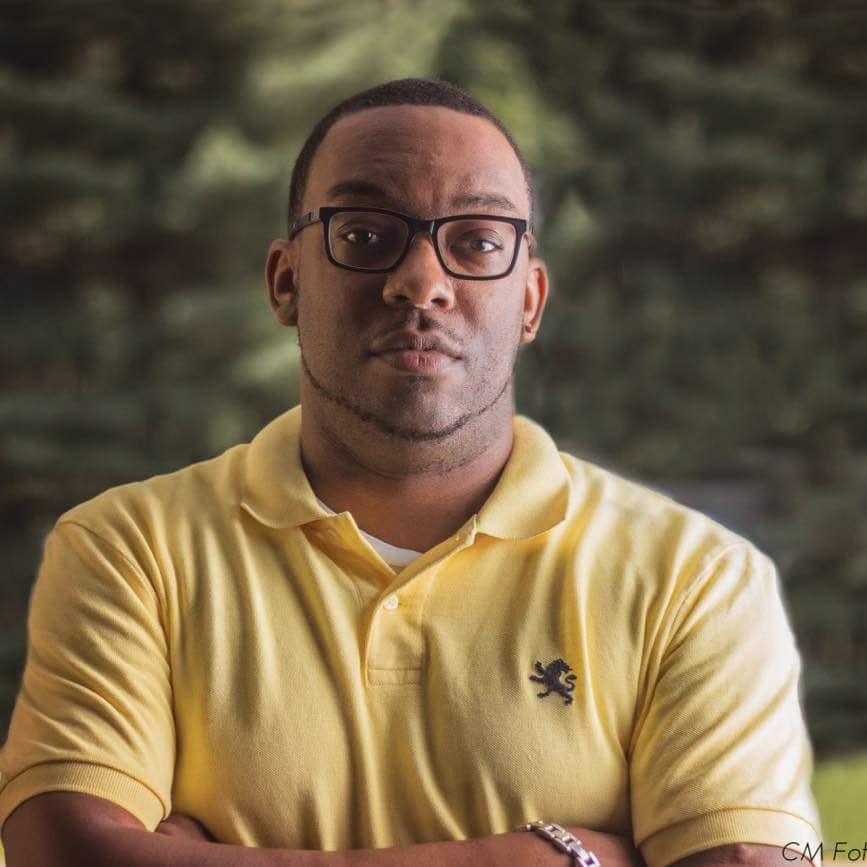
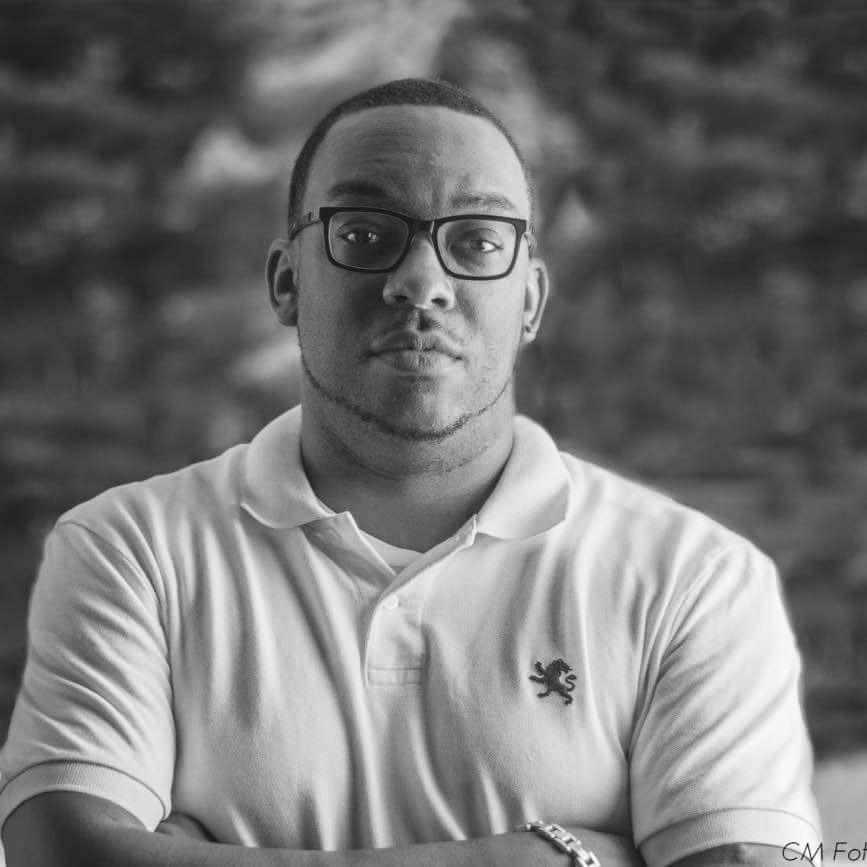
added some work history

diff --git a/index.html b/index.html
@@ -33,7 +33,7 @@
         <div class="row">
             <div class="col-md-12">
             <div class="jumbotron">
-                <div class="small-logo"><img src="img/CaJuan-Wright-black-hires(desktop).png" class="img-fluid" alt="Responsive image"></div>
+                <div class="small-logo"><img src="img/Profile.jpg" class="img-fluid" alt="Responsive image"></div>
                 <h1 class="display-2">CJ Wright</h1>
                 <h2 class="display-6">ALL THINGS CREATIVE</h2>
                 <hr class="my-4">
@@ -44,21 +44,22 @@
             </div>
             </div>
         </div>
-        <div class="text-block">
+       
           <div class="row">
+              <div class="text-block">
               <div class="col-sm-12">
               <h2>Listen Up...</h2>
               <p>Maecenas tincidunt semper tortor, at efficitur urna elementum in. In hac habitasse platea dictumst. Curabitur ornare dolor eu sem interdum posuere. Etiam vehicula sem ut nisi vulputate, eu feugiat diam facilisis. Class aptent taciti sociosqu ad litora torquent per conubia nostra, per inceptos himenaeos. Sed nec tempor nisl. Suspendisse et tristique ligula, non commodo ex. Praesent a vulputate nibh. Nulla ligula diam, molestie sed vestibulum sit amet, consectetur nec nulla. Etiam nec egestas sapien, ac volutpat mi.</p>
               </div>
         </div>
             <div class="col-sm-6">
-                <h4>Stuff I'm Good At:</h4>
+                <h4>Profession Experience:</h4>
                 <ul class="list-group">
-                <li class="list-group-item">Disc Golf</li>
-                <li class="list-group-item">Coding up UI</li>
+                <li class="list-group-item">Audio Production / recording / engineering</li>
+                <li class="list-group-item">Photo / Video / Editing</li>
                 <li class="list-group-item">Playing lots of video games</li>
-                <li class="list-group-item">Using bootstrap grid</li>
-                <li class="list-group-item">Taking long naps</li>
+                <li class="list-group-item">UI Design / Full Stack Developer</li>
+                <li class="list-group-item">Drums / Keys / Vocals </li>
             </ul>
             </div>
         </div>
@@ -76,28 +77,28 @@
             <tbody>
                 <tr>
                 <th scope="row">1</th>
-                <td>Apple</td>
-                <td>Software Engineer</td>
-                <td>Swift</td>
+                <td>Threewire</td>
+                <td>Graphic Design</td>
+                <td>PS,AE,PP,ID</td>
                 </tr>
                 <tr>
                 <th scope="row">2</th>
-                <td>Microsoft</td>
-                <td>Computer Scientist</td>
-                <td>.NET</td>
+                <td>CM Fotografix</td>
+                <td>Owner</td>
+                <td>See above + camera and video equipment</td>
                 </tr>
                 <tr>
                 <th scope="row">3</th>
-                <td>Amazon</td>
-                <td>Dev Ops</td>
-                <td>AWS</td>
+                <td>Lambda CS</td>
+                <td>Student</td>
+                <td>HTML,JS,CSS,React,Angular</td>
                 </tr>
             </tbody>
             </table>
         </div>
         <div class="row footer">
             <div class="col-sm-12">
-            <p class="text-center">Copyright Awesomeness 2018</p>
+            <p class="text-center"> All Things Creative 2018</p>
             </div>
         </div>
     </div><!-- container -->

diff --git a/css/index.css b/css/index.css
@@ -19,7 +19,7 @@
  }
 
     .small-logo {
-        max-width: 20%;
+            max-width: 40%;
     }
 
   .jumbotron {
@@ -32,12 +32,12 @@
     background: gray;
     border: 1px solid white;
   }
+  
 
   .text-block {
     background: offwhite;
     opacity: .8;
-
-  }
+}
   .table-row {
     margin-top: 20px;
   }
